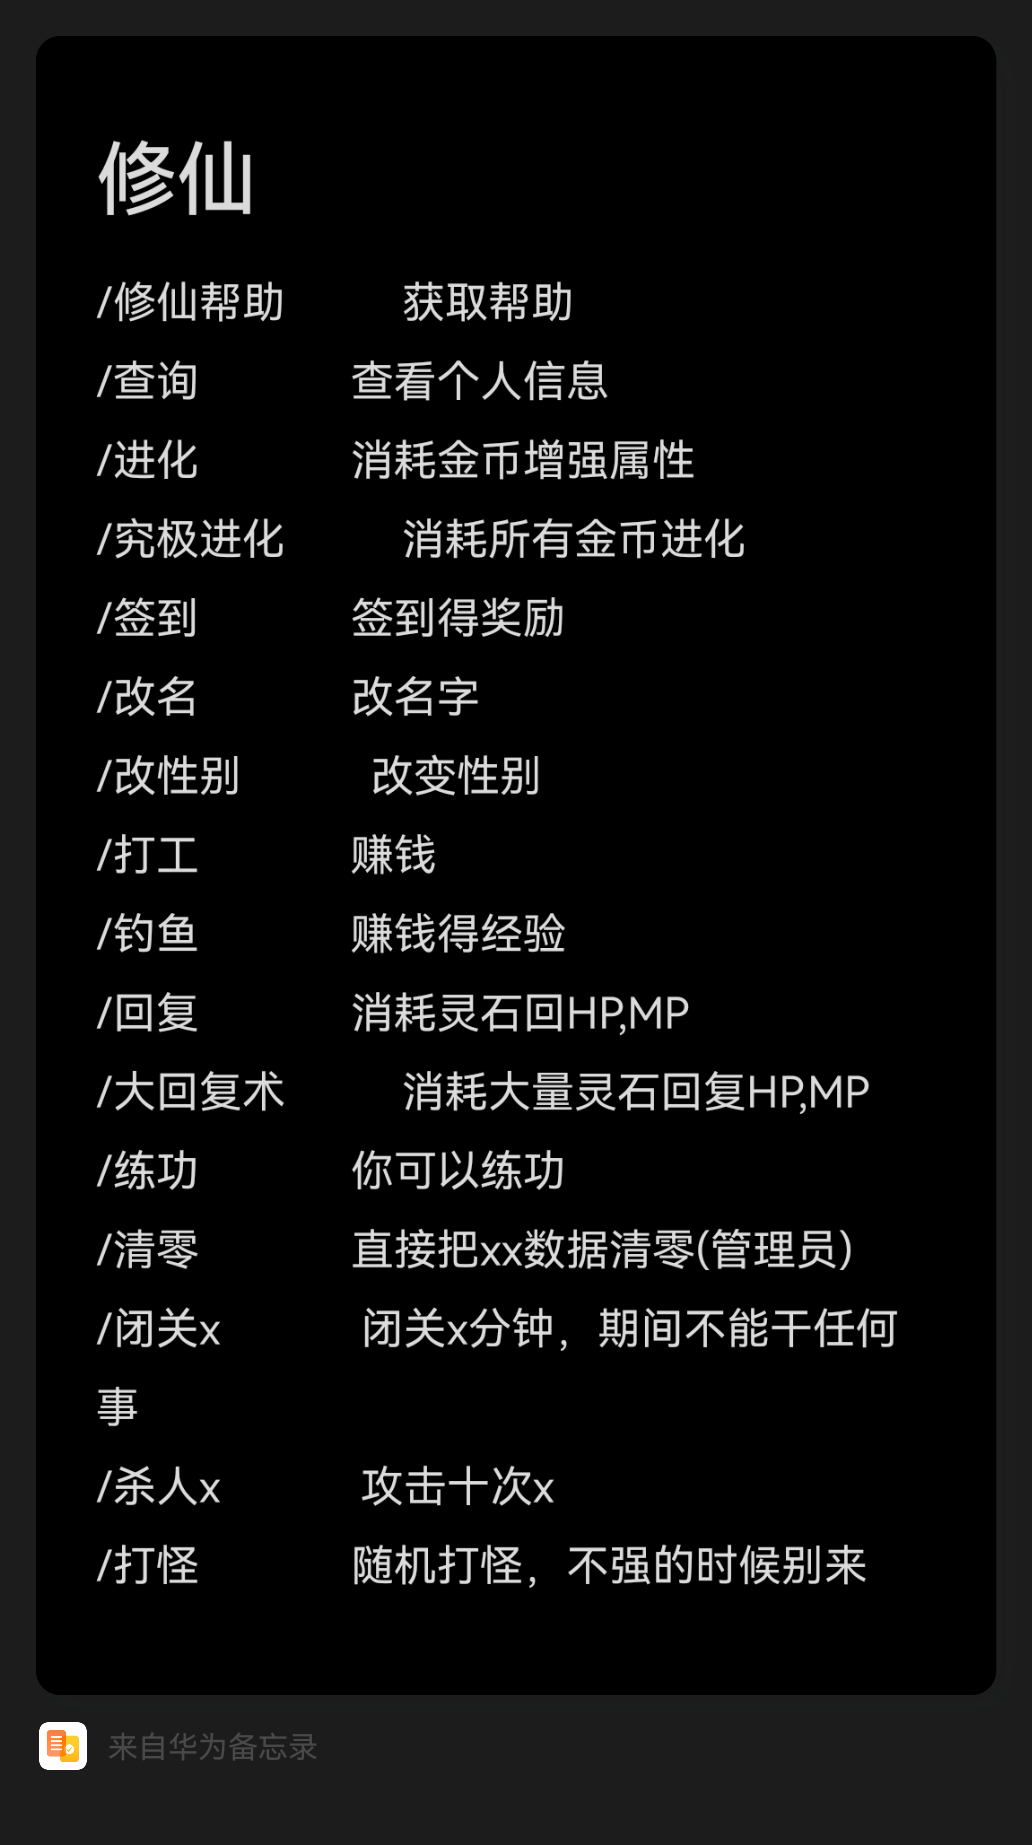
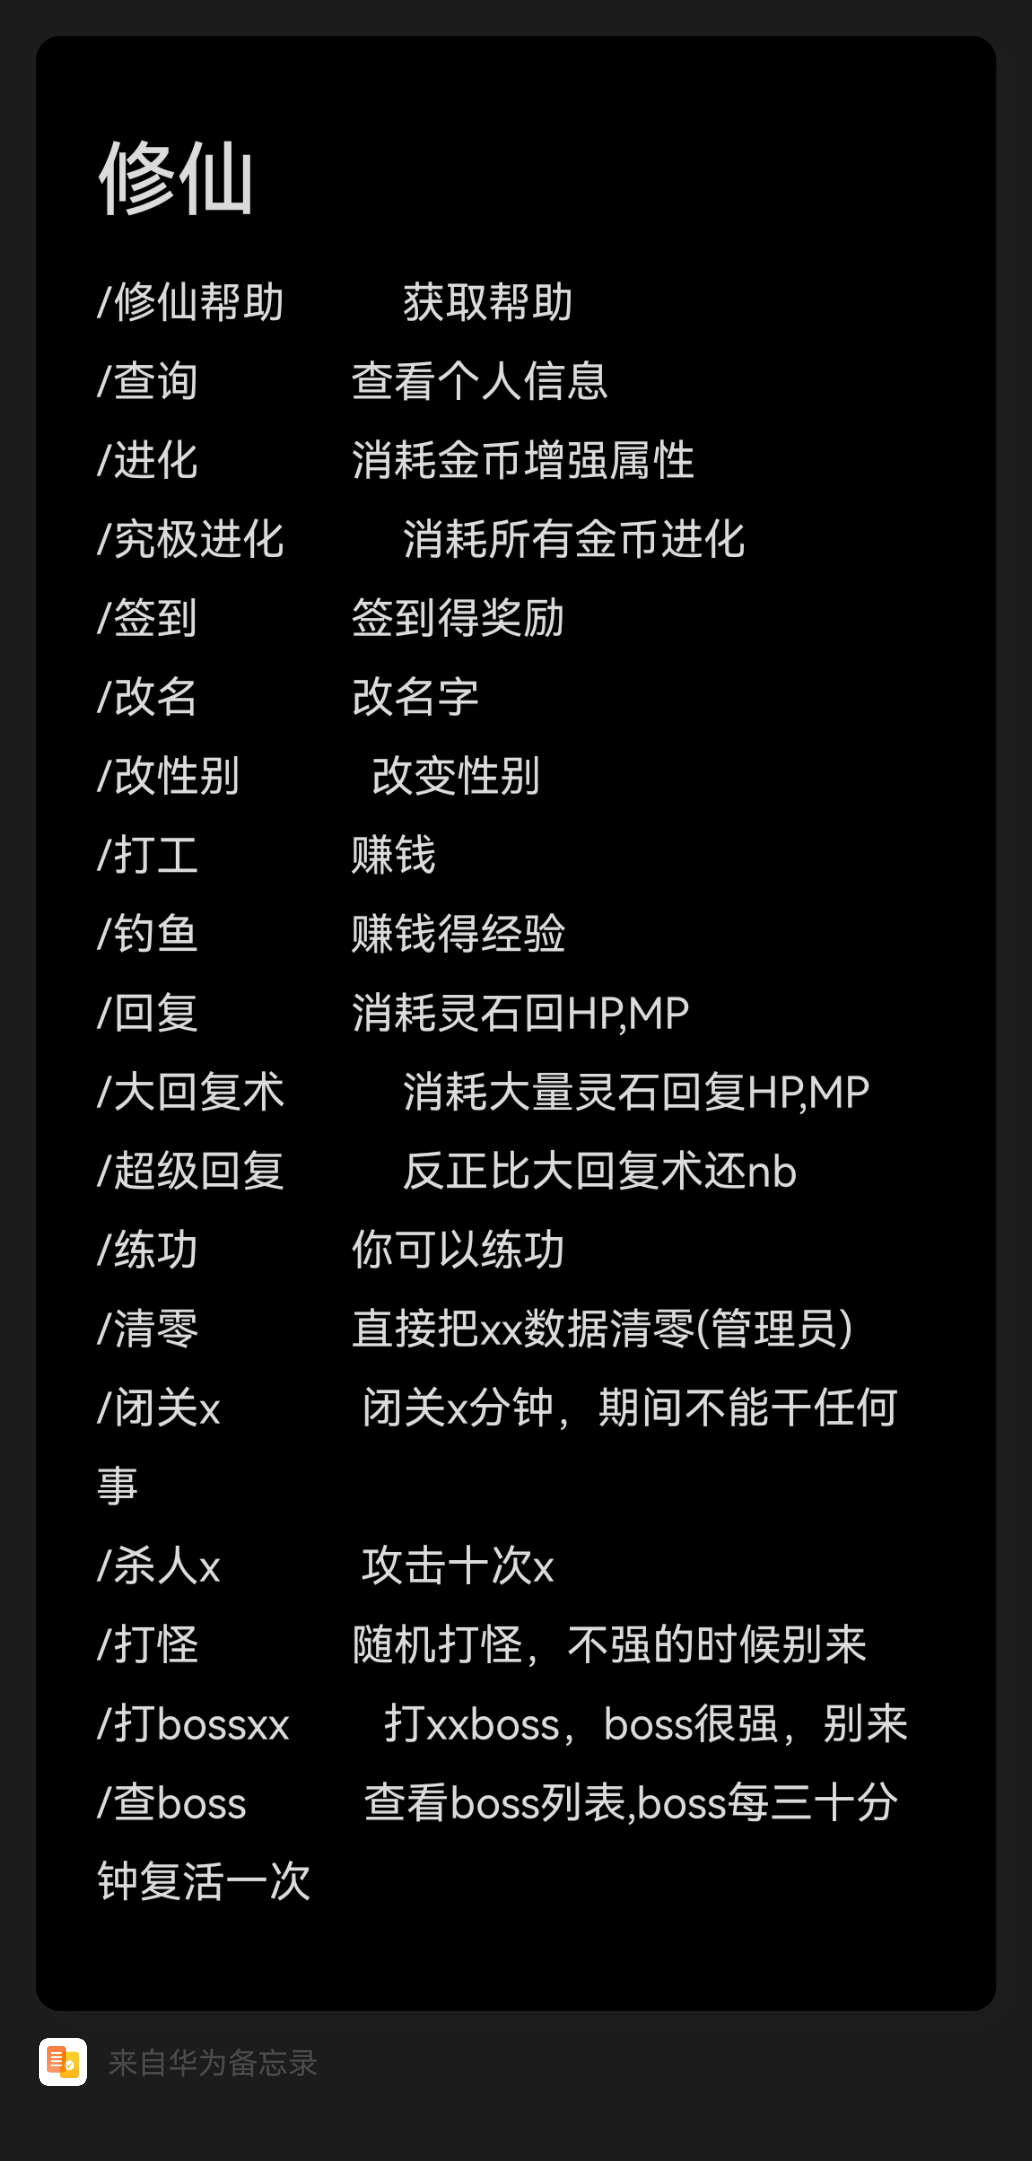
src

Changed region(s): [[0.3411, 0.1236, 0.8682, 0.865], [0.031, 0.0618, 0.9612, 0.9886]]

diff --git a/bot2/plugins/xiuxian/Role.py b/bot2/plugins/xiuxian/Role.py
@@ -10,7 +10,7 @@
 import random
 import sqlite3
 import time
-from bot2.plugins.xiuxian.AMonster import Monster,MonBoss
+from bot2.plugins.xiuxian.AMonster import Monster, MonBoss
 
 
 class XianRole:
@@ -124,8 +124,17 @@ class XianRole:
             return False
         else:
             self.gold -= 200
-            self.MP += 300
-            self.HP += 500
+            self.MP += 330
+            self.HP += 530
+            return True
+
+    def upSuperHPMP(self):
+        if self.gold < 2000:
+            return False
+        else:
+            self.gold -= 2000
+            self.MP += 3800
+            self.HP += 5800
             return True
 
     def kmonboss(self, m: MonBoss) -> (bool, int, int, int):
@@ -145,12 +154,12 @@ class XianRole:
             return False, 0, 0, 0
         else:
             zgold = (m.getAttack() + m.getDefense()) * count // 2
-            zexp = zgold // 2
+            zexp = zgold * 4
             self.gold += zgold
             self.experience += zexp
-            con=sqlite3.connect('data/xiuxian.data')
-            cur=con.cursor()
-            cur.execute('update monboss set live=? where name=?',(0,m.name))
+            con = sqlite3.connect('data/xiuxian.data')
+            cur = con.cursor()
+            cur.execute('update monboss set live=? where name=?', (0, m.name))
             con.commit()
             cur.close()
             con.close()
@@ -370,10 +379,12 @@ class XianRole:
             exp *= random.randint(2, 5) * self.level
             status = -1
         elif exp == 0:
-            if random.choice((True, False)):
+            if 0 == random.randint(0, 20):
                 self.level -= 1
                 status = -3
             else:
+                exp = -20
+                exp *= self.level * random.randint(2, 10)
                 status = -2
         elif exp in (40, 41):
             exp = exp * random.randint(5, 8) * self.level // 8
@@ -404,20 +415,23 @@ class XianRole:
         return g
 
     def fishing(self) -> (int, int, bool):
-        if self.gold < 5:
+        if self.gold < 50:
             return (0, 0, False)
-        self.gold -= 5
+        self.gold -= 50
         self.fishnum += 1
-        g = random.randint(1, 20)
-        e = random.randint(1, 10)
-        if g + e < 15:
+        g = random.randint(1, 30)
+        e = random.randint(1, 50)
+        if g + e < 40:
             return (g, e, False)
-        elif g + e <= 20:
+        elif g + e <= 60:
             g = g // 3
             e = e // 3
-        elif g + e > 28:
-            g *= 3
-            e *= 3
+        elif g + e > 78:
+            g *= self.level * 50
+            e *= 50 * self.level
+        else:
+            g *= 20
+            e *= 20
         self.gold += g
         self.experience += e
         self.upLevel()
@@ -432,6 +446,16 @@ class XianRole:
             self.speed += 3 * self.level
             self.MP += 10 * self.level
             self.HP += 30 * self.level
+
+    def supergoldToField(self) -> bool:
+        if self.gold >= 2000:
+            self.gold -= random.randint(1500, 2000)
+            self.attack += random.randint(100, 300)
+            self.defense += random.randint(100, 300)
+            self.speed += random.randint(100, 300)
+            self.upSql()
+            return True
+        return False
 
     def goldToField(self) -> bool:
         if self.gold >= 20:

diff --git a/bot2/plugins/xiuxian/morege.py b/bot2/plugins/xiuxian/morege.py
@@ -45,15 +45,15 @@ async def infoxian_handle(event: Event):
     if u.isBiguan():
         await fishxian.finish(Message(f'你正在闭关'))
     gold,exp,isfish=u.fishing()
-    del u
     if gold+exp==0:
         mess='你没灵石买鱼饵了,快去打工吧！'
     elif not isfish:
         mess = '你一无所获，真倒霉！下次再来吧'
-    elif gold+exp>30:
+    elif gold+exp>u.level*50:
         mess = f'恭喜！你掉到了宝藏，得到了{random.choice(bzang)},灵石+{gold}，灵气+{exp}'
-    elif gold+exp>20:
+    elif gold+exp>1200:
         mess=f'你钓鱼得到了{random.choice(goods)},灵石+{gold}，灵气+{exp}'
     else:
         mess=f'你钓鱼得到了{random.choice(bads)},灵石+{gold}，灵气+{exp}'
+    del u
     await fishxian.finish(Message(mess))

diff --git a/bot2/plugins/xiuxian/uphm.py b/bot2/plugins/xiuxian/uphm.py
@@ -30,8 +30,20 @@ async def infoxian_handle(event: Event):
     uid = event.get_user_id()
     u = XianRole(uid)
     if u.upBigHPMP():
-        mess='恭喜你消耗200灵石增加了500HP,300MP'
+        mess='恭喜你消耗200灵石增加了530HP,330MP'
     else:
         mess='您的灵石不足'
     del u
     await biguphmxian.finish(Message(mess))
+
+superuphmxian = on_command('超级回复', priority=241)
+@superuphmxian.handle()
+async def infoxian_handle(event: Event):
+    uid = event.get_user_id()
+    u = XianRole(uid)
+    if u.upBigHPMP():
+        mess='恭喜你消耗2000灵石增加了5800HP,3800MP'
+    else:
+        mess='您的灵石不足'
+    del u
+    await superuphmxian.finish(Message(mess))

diff --git a/bot2/plugins/xiuxian/reboss.py b/bot2/plugins/xiuxian/reboss.py
@@ -11,12 +11,14 @@ from nonebot import require
 require("nonebot_plugin_apscheduler")
 from nonebot_plugin_apscheduler import scheduler
 import sqlite3
-#复活boss
+#复活boss,且清空数据库中的无效值
 @scheduler.scheduled_job("cron", minute='*/30')
 async def reboss():
     con=sqlite3.connect('data/xiuxian.data')
     cur=con.cursor()
     cur.execute('update monboss set live=1')
+    cur.execute('delete from biguan where uid IS NULL')
+    cur.execute('delete from Role where uid IS NULL')
     con.commit()
     cur.close()
     con.close()

diff --git a/bot2/plugins/xiuxian/upField.py b/bot2/plugins/xiuxian/upField.py
@@ -31,8 +31,6 @@ jiujiupxian = on_command('究极进化', priority=239)
 async def jiujiupxian_handle(event: Event):
     uid = event.get_user_id()
     u = XianRole(uid, event.sender.nickname)
-    count=0
-    while u.goldToField() and count<100:
-        count+=1
-    mess=f'恭喜你消耗大量灵石进化{count}次，各项属性大量增加！'
+    u.supergoldToField()
+    mess=f'恭喜你消耗大量灵石进化100次，各项属性大量增加！'
     await jiujiupxian.finish(Message(mess))

diff --git a/bot2/plugins/xiuxian/upExp.py b/bot2/plugins/xiuxian/upExp.py
@@ -22,7 +22,7 @@ async def infoxian_handle(event: GroupMessageEvent):
     if status == -3:
         mess = f'你在练功的时候走火入魔了，等级-1'
     elif status == -2:
-        mess = f'你在练功的时候走火入魔了，好在你稳住了心神，灵气不增不减'
+        mess = f'你在练功的时候走火入魔了，好在你稳住了心神,没有掉级，灵气{exp}'
     elif status == -1:
         mess = f'你不小心走火入魔了，灵气{exp}'
     elif status == 0:

diff --git a/bot2/plugins/xiuxian/helpxiuxian.py b/bot2/plugins/xiuxian/helpxiuxian.py
@@ -23,6 +23,7 @@ helpxiuxian='''
 /钓鱼             赚钱得经验
 /回复             消耗灵石回HP,MP
 /大回复术          消耗大量灵石回复HP,MP
+/超级回复          反正比大回复术还nb
 /练功             你可以练功
 /清零             直接把xx数据清零(管理员)
 /闭关x            闭关x分钟，期间不能干任何事
